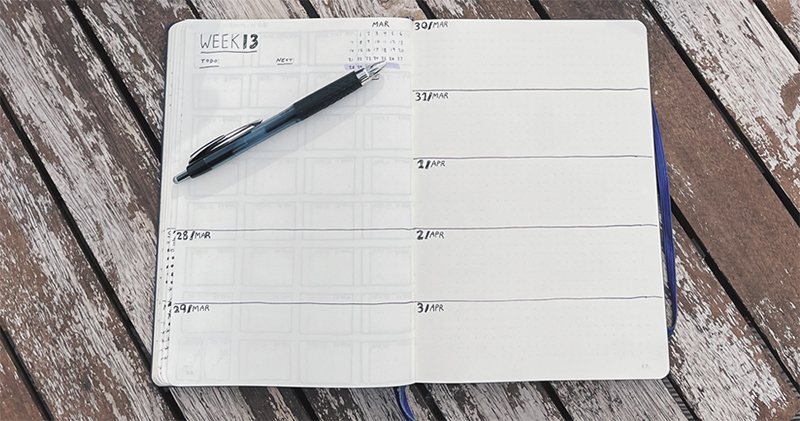
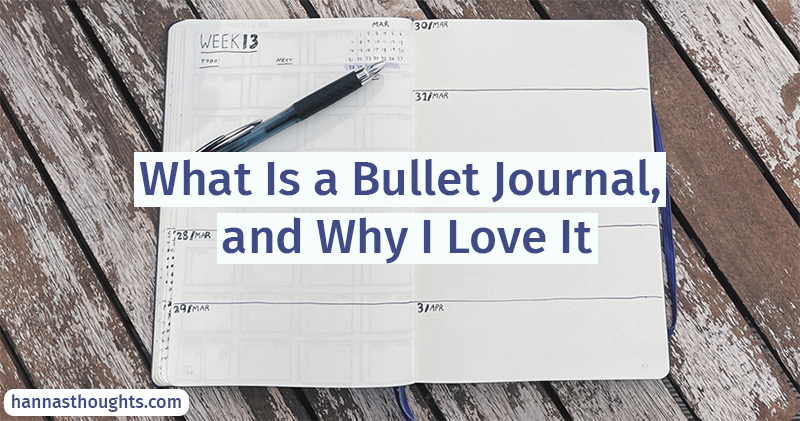
Add second bullet journal post and images

Changed region(s): [[0.1562, 0.3397, 0.8438, 0.6485], [0.0, 0.9264, 0.25, 0.9881]]

diff --git a/content/posts/how-i-use-my-bullet-journal/index.md b/content/posts/how-i-use-my-bullet-journal/index.md
@@ -1,0 +1,134 @@
++++
+date = "2021-04-12T10:31:38-05:00"
+draft = false
+title = "How I Use My Bullet Journal"
+categories = ["Guides"]
+tags = ["Bullet Journaling", "Organization"]
+featured = ["true"]
+images=["/how-i-use-my-bullet-journal/twitter-card.jpg"]
+summary = "I walk you through how I use my bullet journal: the tools I use, how I organize my weekly layouts, and how I think a bullet journal can even be a form of art."
++++
+
+In my [last post](../what-is-a-bullet-journal-and-why-i-love-it), I described what bullet journaling is and why I love it so much. Today, I'd like to walk you through how I bullet journal: the tools I use, how I organize my weekly layouts, and the different ways I choose to use my bullet journal.
+
+## My Weekly Layout
+
+I've settled on a weekly layout that I love after experimenting with a lot of different designs, and so I thought I'd share that here. This layout may not look as beautiful as others, but I find it very functional, and it gives me enough space to keep track of my tasks and also serves as a diary.
+
+<div class="text-center inline-image-container content-container-expanded">
+  <img src="./my-weekly-layout-design.jpg" alt="" class="img-responsive img-center"></img>
+  <div class="caption-container">
+    <div class="inline-image-caption">The layout I've settled on for my weekly spreads.</div>
+  </div>
+</div>
+
+### Key features:
+
+- Weekly tasks and to-dos are pulled into focus, as well as things I need to remember for the following week.
+- I save space to write a recap of the week in general. I like to do monthly reflections, and having a little recap of every week is helpful for that.
+- Each day has space for tasks and to-dos, but also plenty of space for a little diary entry. I like to use my bullet journal as a mini-diary/place to jot memories down.
+- I can see the context of the week in the current month
+
+## Other Features of My Journal
+
+Aside from being a place to track tasks and to-dos over time, a bullet journal can be whatever else you want it to be! Here is what I use my bullet journal for.
+
+### Lists
+
+I keep track of a variety of lists at the beginning of my bullet journal. A lot are purely for helping me remember things I enjoy (these make up the basis of my [yearly favorites](../categories/yearly-favorites/) posts here, by the way.) I find the act of setting aside space for them in my journal helps me remember them and also reflect on them more easily. Here is what I track:
+
+- **Best food and beer** I like food and I like beer! It's fun to keep track of good meals and beers I have over the year.
+- **Favorite memories** The act of making a list of favorite memories helps me actually remember good memories from the year.
+- **Travel** I keep a little list of where I travel and notes from what I did. I sometimes include a longer travel journal, but this is a nice little overview of where I went in the year.
+- **Books read** This is one I'm proud of. I make this a little art project, basically. I read almost everything on my Kindle, so I don't get to spend a lot of time looking at book covers. Drawing the covers helps me reconnect with what I've read, and I also give what I read a rating out of five.
+
+<div class="text-center inline-image-container content-container-expanded">
+  <img src="./books-read-2020-spread.jpg" alt="" class="img-responsive img-center"></img>
+  <div class="caption-container">
+    <div class="inline-image-caption">Some of the books I read in 2020.</div>
+  </div>
+</div>
+
+- **What I watched list** I keep track of the shows and movies I watch during the year, and give them a rating out of five.
+- **Books, movies, TV shows, music, games, and podcasts I want to check out** I like having one place for all the lists of media I want to consume. This way I never need to worry about what to read/watch/listen to next.
+- **Bucket list** Self-explanatory! Just things I'd like to do in my life at some point.
+- **Wishlist** I write down things I want to buy for myself here. I find that waiting to buy things I want makes me actually buy things I will use. I check this every few months and remove items that I find I don't actually want anymore.
+
+### Tracking Projects and Goals
+
+- **Yearly Goals** I start every year with goals/New Year's resolutions, and I find writing them down and setting up checkpoints 6 months into the year helps me keep better track of these goals and my progress on them.
+- **Aspirational project list** I keep a list of aspirational projects that sound neat to do someday, but I don't necessarily have time for now. For example, I think it would be really cool to run a Plex media server. I don't have time for it now, but I'd like to do it someday, so I put it on this list.
+- **Classes/Tutorial progress** I go through a fair number of tutorials and classes because being a software developer means learning new things all the time. I keep track of my progress on one page in my journal.
+- **Finances** I generally keep track of my retirement account balances and savings every month and record them on one page. This helps me actually check my accounts on a regular basis and consider whether I need to increase or decrease my savings rate.
+- **Blog post ideas** I also keep track of post ideas for this blog and my [dev blog](https://www.hannaliebl.com/blog/)!
+
+### Habit Trackers
+
+<div class="pull-left inline-image mod-left-aligned mod-top-aligned">
+  <img src="./basic-habit-tracker.jpg" alt="My exercise habit tracker" class="img-responsive img-center"></img>
+  <div class="caption-container">
+    <div class="inline-image-caption">A very simple habit tracker.</div>
+  </div>
+</div>
+
+I also use my bullet journal as a habit tracker, with mixed success. I think it is easy to get over ambitious with tracking a lot of habits you want to build and then burning out. I find focusing on one or two a month is achievable.
+
+I generally draw a mini calendar and fill in days that I completed the habit I want to build. Some people have luck with big grids of habits, but I prefer the simplicity of a mini-calendar. I generally put these on my monthly spread pages.
+
+### Mood Tracker
+
+This is another feature I've been testing recently. I like the idea of assigning each day a general rating, and then slowly building up a year. Often this is called "a year in pixels."
+
+The problem I've run into is that a day may be a mix of good and bad, and so I end up with most days being the "average" rating. Which I suppose is how most days are, after all. But I'm also not sure I'm sold on this being useful for anything (can I see a pattern or track my moods to something else? So far, not really), but it is, at least, kind of interesting at a surface level.
+
+### Monthly Reflections
+
+One final piece of my journal that I find extremely useful is monthly reflections. At the end of every month, I take stock of what happened, what I achieved, if I met my goals, and what dominated my thinking/anxiety. I've found these [four questions from the Shine app blog](https://advice.theshineapp.com/articles/use-these-4-questions-for-your-end-of-month-reflection/) to be helpful to frame my reflections.
+
+This built-in time for reflection is something I've really come to look forward to. It's a small act of self-care, and I do think this built-in reflection has made a difference in my ability to achieve and set goals, and also to examine my mindset.
+
+I used to take a more "stats-based" approach to this reflection, which can also be helpful. For example, in my 2020 bullet journal, I used the monthly reflection page to track the hours I spent working on contract software development projects, the number of days I exercised, and whatever else I happened to have data for. I've found the more writing-heavy, reflection approach based on the four questions linked above to be more useful for me in 2021, though.
+
+## Equipment I Use
+
+You can buy all types of fancy bullet journal equipment, including [official bullet journals](https://bulletjournal.com/pages/shop) that have pages labeled for the future log. But, really, you can use any notebook you have laying around and any writing utensil. I get into this type of stuff, though, so here is my opinion on equipment:
+
+### Notebook
+
+I use a [Leuchtturm 1917 dot grid notebook](https://www.amazon.com/Leuchtturm1917-Medium-Ruled-Hardcover-Notebook/dp/B00SBDN12W?&linkCode=ll1&tag=d01a3488-20&linkId=70cd5f8c5124382d9ecae2ed4cfd2ba4&language=en_US&ref_=as_li_ss_tl), which is one of the pieces of equipment I saw being used in the bullet journal social media sphere. The pages are a bit thin, and so markers and pens can bleed through a bit, but I don't mind, because of its slim profile and nice-feeling cover. I kind of like the feeling of the marker/pen ghosting through from one page to the next, it makes me feel accomplished, I guess, to have that feeling of fullness, of actually using a journal up and my efforts ghosting through from one page to the next. I also love dot-grid notebooks: they work super well for laying out information, but don't take over the page like lines do, in my opinion.
+
+### Pens
+
+I'm also very particular about pens. My go-to for daily writing is a [Uni-Ball Signo Ultra Micro 207 retractable gel pen](https://www.amazon.com/gp/product/B005HNZ5ZU?ie=UTF8&th=1&linkCode=ll1&tag=d01a3488-20&linkId=0d39c89a261e7376e662a4afcc064c61&language=en_US&ref_=as_li_ss_tl) (quite a mouthful...). They have very fine tips and write smoothly. I go through multiple a year.
+
+For layouts and titles, I use [Sakura Pigma Micron pens](https://www.amazon.com/Sakura-Pigma-30062-Micron-Blister/dp/B0008G8G8Y?dchild=1&keywords=micron+pens&qid=1618234025&sr=8-3&linkCode=ll1&tag=d01a3488-20&linkId=a6a88293dd0f502749d2e9d91f23b865&language=en_US&ref_=as_li_ss_tl), which are artist's pens. They come in different widths. I use 08, 05, and 02 for my layout needs.
+
+### Color
+
+I sometimes add color to my bullet journal. I used Crayola Washable markers for a while, which work fine, but I splurged on some [Tombow dual brush pen art markers](https://www.amazon.com/gp/product/B07581CXYK?ie=UTF8&psc=1&linkCode=ll1&tag=d01a3488-20&linkId=6d7d4e5b6e45acc9b3220b719fa5e1bc&language=en_US&ref_=as_li_ss_tl), and they are great. They can be used for calligraphy, and the brush tips are great for evenly filling in space with color.
+
+## The Bullet Journal As An Art Form
+
+Browse through the [#bujo tag](https://www.instagram.com/explore/tags/bujo/) on Instagram, and you will see millions of beautiful photos of people's journals, and the lettering and art they intersperse with mundane chores and habit trackers. On the one hand, I love looking at these beautiful images and am astounded at how talented many people who keep bullet journals are. On the other hand, I think this social media presence makes it intimidating for people to start bullet journaling. A bullet journal doesn't need to be a piece of art: it can be simply a functional, utilitarian way to organize your life.
+
+<div class="pull-left inline-image mod-left-aligned mod-top-aligned">
+  <img src="./artistic-june-cover.jpg" alt="My exercise habit tracker" class="img-responsive img-center"></img>
+  <div class="caption-container">
+    <div class="inline-image-caption">My illustrated cover page for June 2019.</div>
+  </div>
+</div>
+
+But, I like that it can be used as a creative outlet. In recent years I've gone more towards the utilitarian side, but I do sometimes create artistic cover pages for months, or create a monthly spread with drawings and typography that could, maybe, find a home on an Instagram page.
+
+My bullet journal is sometimes the only time in a day or week that I put pen to paper. As someone who grew up doodling and drawing, I like that connection to pen and paper, and when I give myself license to be a little creative and not worry so much about "messing up" my journal, that is when I find it most useful, and it can become a spot for creativity as well as function.
+
+<div class="text-center inline-image-container content-container-expanded">
+  <img src="./june-spread.jpg" alt="" class="img-responsive img-center"></img>
+  <div class="caption-container">
+    <div class="inline-image-caption">The monthly spread for June 2019. I went to Ireland and Iceland and drew inspiration from those trips for this design.</div>
+  </div>
+</div>
+
+My main lesson for bullet journaling, and my main piece of advice to anyone wanting to try, is just to do it! Don't worry about making it perfect. Don't compare it to other people who post on social media. Do it for yourself. Use the underlying system of organization however it helps you, and leave the rest. I've tried and abandoned spreads, projects, and layouts until I found what worked for me, and I'm still experimenting with different ways to use my bullet journal.
+
+I love to hear about other people using bullet journals, or other systems of organization. Feel free to [send me a Tweet](https://twitter.com/lieblhan) or email me (first name dot last name at gmail dot com!) if you want to share how you use your bullet journal.
